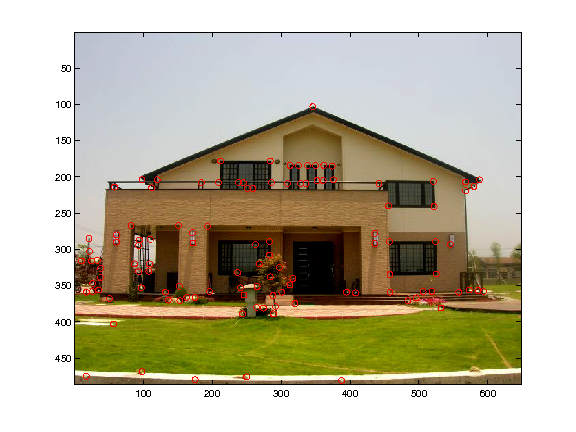
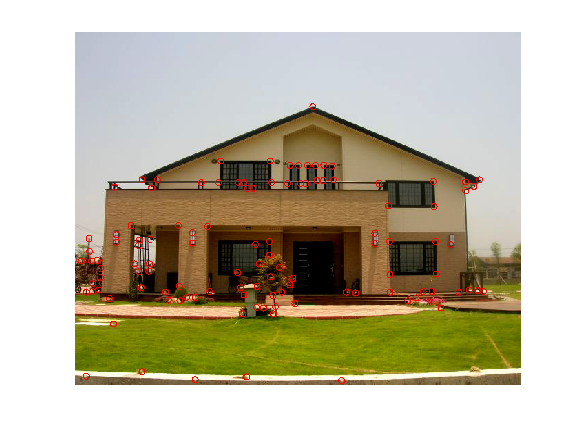
iadd

diff --git a/MyHarrisCornerDetector_Min.m b/MyHarrisCornerDetector_Min.m
@@ -37,6 +37,7 @@ frame = imread('data/Im.jpg');
 I = double(frame);
 figure(1);
 imagesc(frame);
+axis off;
 [xmax, ymax,ch] = size(I);
 xmin = 1;
 ymin = 1;
@@ -61,6 +62,7 @@ Ixy = conv2(Ix.*Iy, g,'same'); % calculate Ixy
 %% visualize Ixy
 figure(2);
 imagesc(Ixy);
+axis off;
 
 %%%%%%% Demo Check Point -------------------
 
@@ -102,4 +104,5 @@ figure(3)
 imagesc(uint8(I));
 hold on;
 plot(c1,r1,'or');
+axis off;
 return;

diff --git a/README.md b/README.md
@@ -1,1 +1,3 @@
 # DSP_Lab_HW2
+
+#
